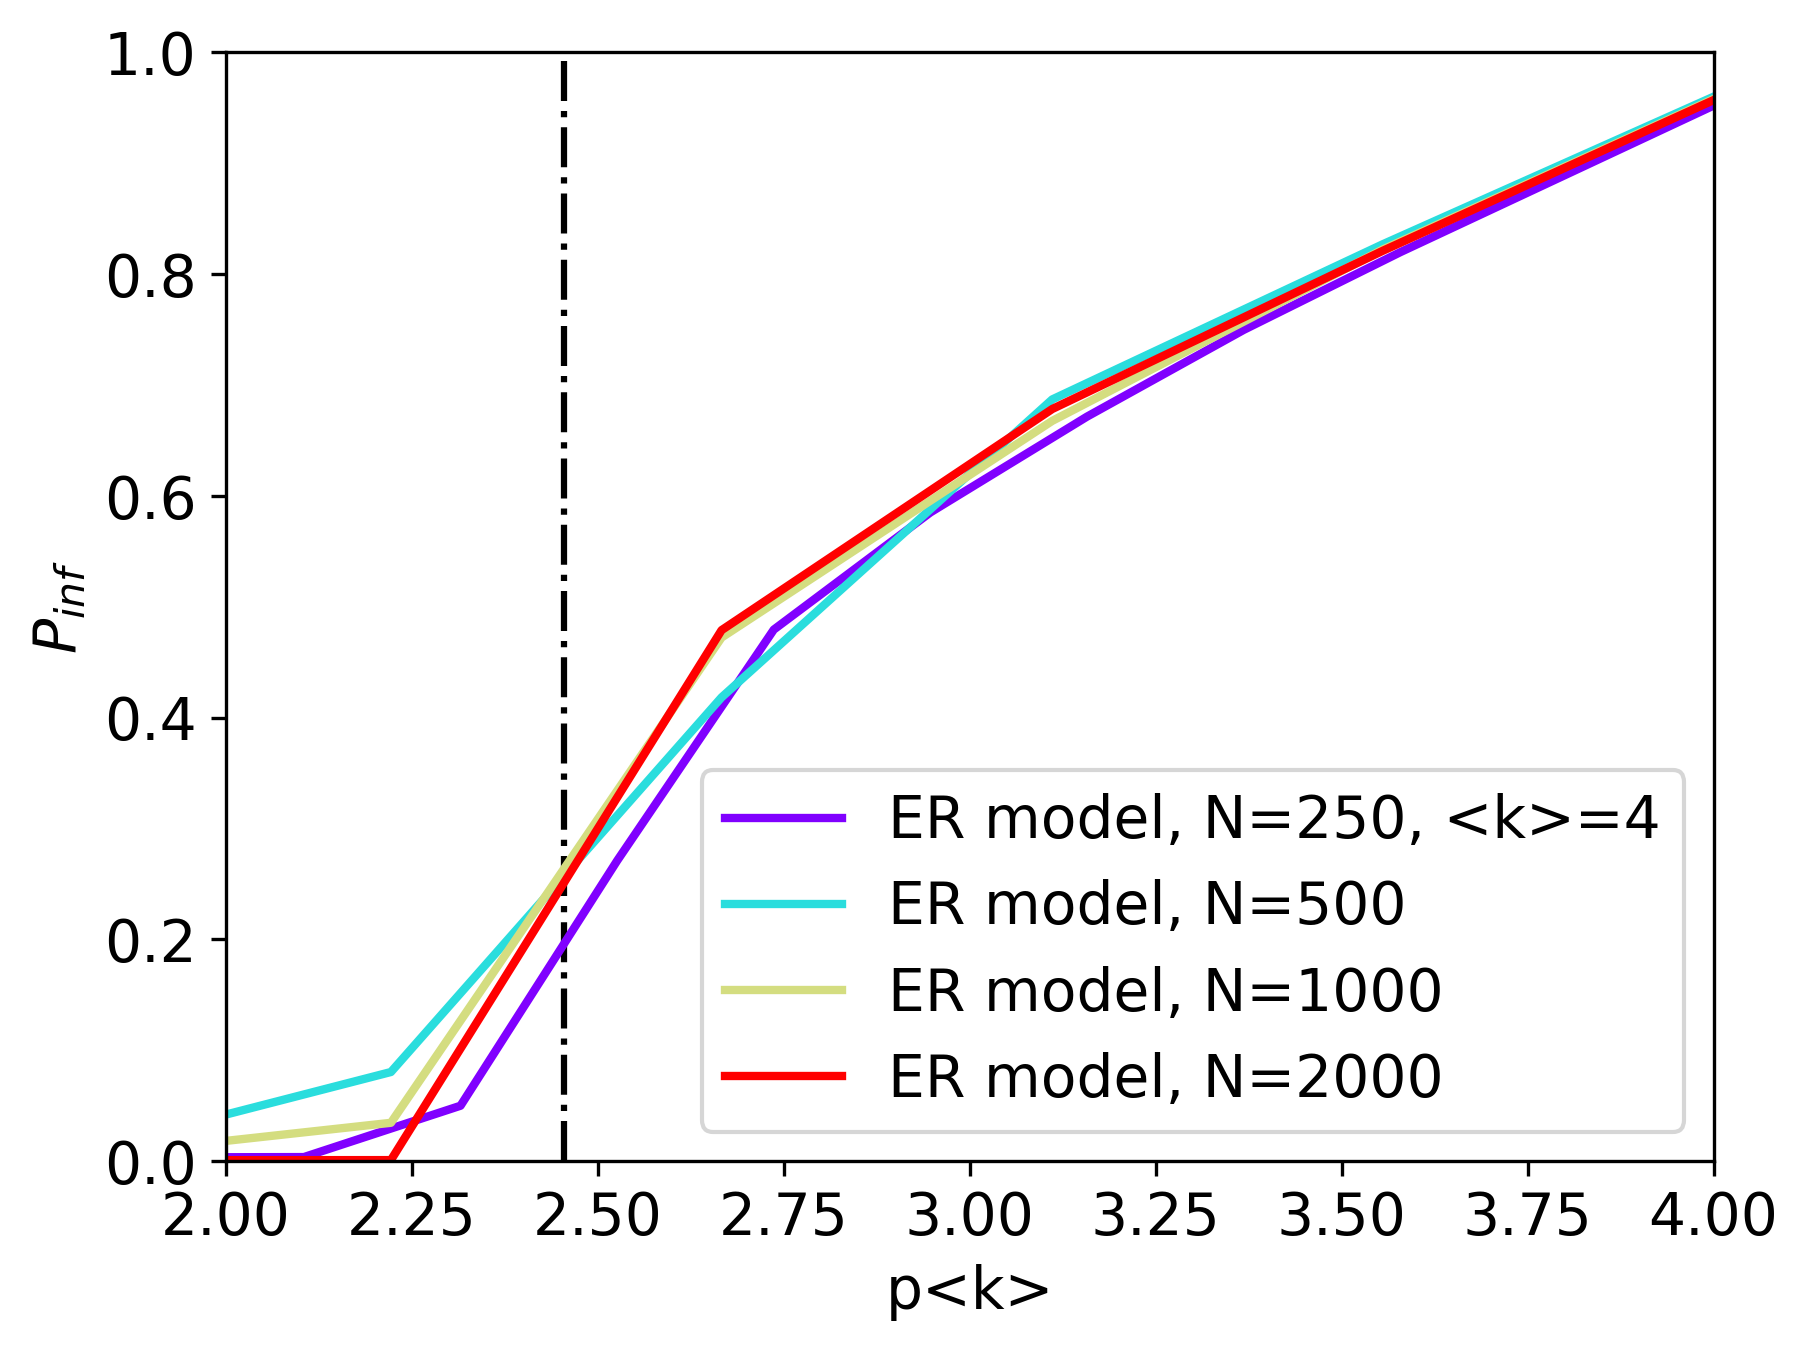
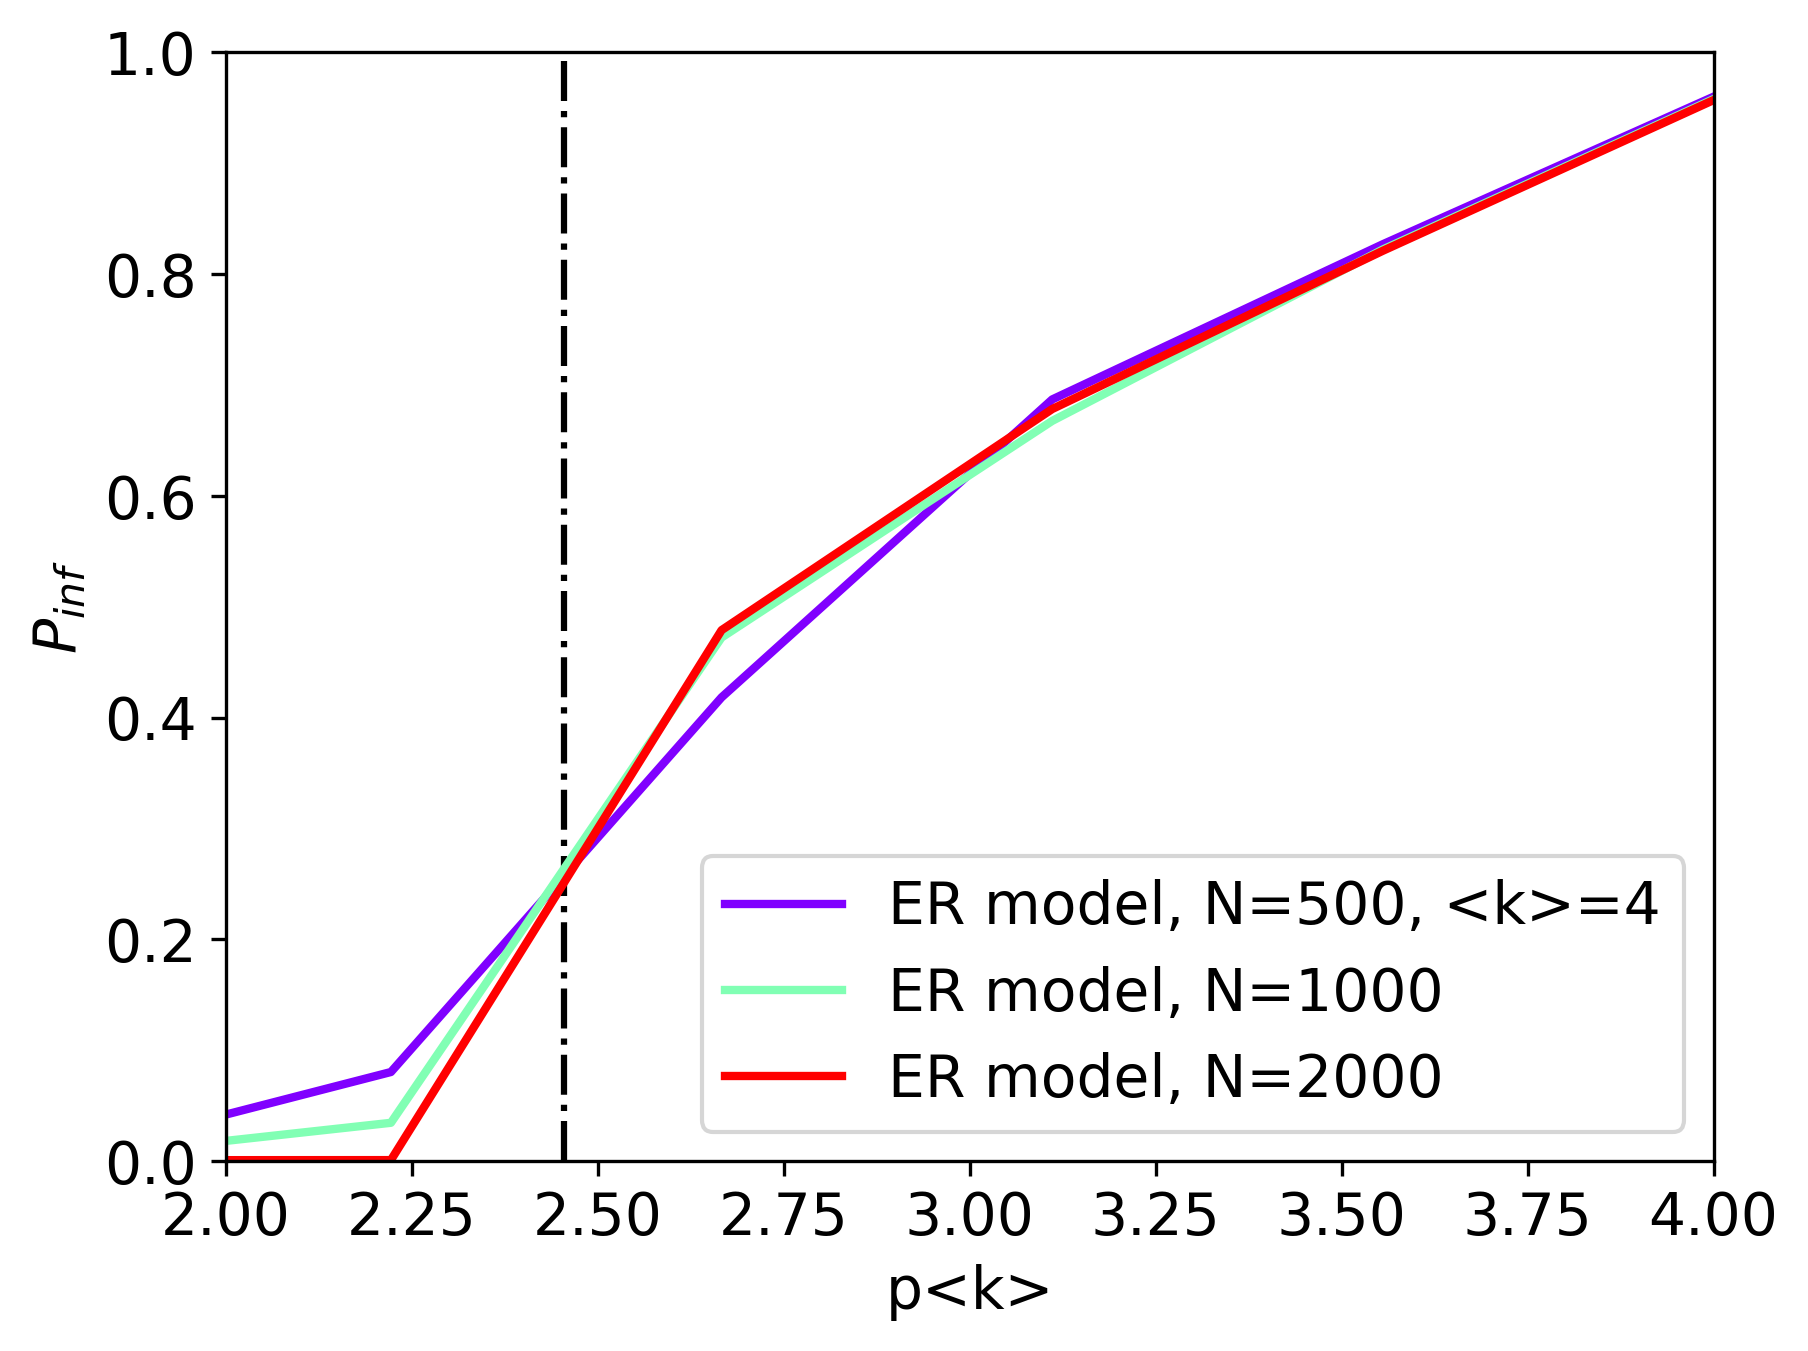
main 4000

diff --git a/plot.py b/plot.py
@@ -8,15 +8,15 @@ from src.measure import *
 
 #plot_pinf([ER250, ER500], k=4, labels= ["ER model, N=250, <k>=4","ER model, N=500"], path="./notebooks/figure/ER_250_500.png", p_theory=True)
 
-'''
+
 ## normal plot 
-ER250= np.loadtxt('./notebooks/results/sy/er/t20/ERn250k4.csv',delimiter=",")
+#ER250= np.loadtxt('./notebooks/results/sy/er/t20/ERn250k4.csv',delimiter=",")
 ER500= np.loadtxt('./notebooks/results/sy/er/t20/ERn500k4.csv',delimiter=",")
 ER1000= np.loadtxt('./notebooks/results/sy/er/t20/ERn1000k4.csv',delimiter=",")
 ER2000= np.loadtxt('./notebooks/results/sy/er/t20/ERn2000k4.csv',delimiter=",")
 
-plot_pinf([ER250, ER500, ER1000, ER2000], k=4,labels= ["ER model, N=250, <k>=4","ER model, N=500", "ER model, N=1000", "ER model, N=2000"], path="./notebooks/figure/ER_t20.png", p_theory=True)
-'''
+plot_pinf([ER500, ER1000, ER2000], k=4,labels= ["ER model, N=500, <k>=4","ER model, N=1000", "ER model, N=2000"], path="./notebooks/figure/ER_t20.png", p_theory=True)
+
 
 
 ### plot p_inf of interdependent network
@@ -26,10 +26,10 @@ plot_pinf([ER250, ER500, ER1000, ER2000], k=4,labels= ["ER model, N=250, <k>=4",
 
 #p_inf_t = np.loadtxt('./notebooks/results/single_train_t50.csv', delimiter=",")
 #p_inf_m = np.loadtxt('./notebooks/results/single_metro_t50.csv', delimiter=",")
-p_inf_int = np.loadtxt('./notebooks/results/PARIS/Paris_train_metro_new_t50.csv', delimiter=",")
+#p_inf_int = np.loadtxt('./notebooks/results/PARIS/Paris_train_metro_new_t50.csv', delimiter=",")
 #residual = pinf_int_mt[1][0]
 
-plot_pinf([[p_inf_int[0], p_inf_int[1]]], labels=['Real world interdependent Network'], path="./notebooks/figure/PARIS/real_world.png", residual = True)
+#plot_pinf([[p_inf_int[0], p_inf_int[1]]], labels=['Real world interdependent Network'], path="./notebooks/figure/PARIS/real_world.png", residual = True)
 
 #plot_pinf([[pinf_int_mt[0], pinf_int_mt[1]]], path='./notebooks/figure/realWorld/real_int_net_scaled_t50.png', residual = True)
 '''

diff --git a/src/measure.py b/src/measure.py
@@ -41,7 +41,7 @@ def generate_pinf_ER(n, k, t=5, hasGraph = False, files=[]):
     
     p_infs = []
 
-    ps = np.linspace(0,1,20)
+    ps = np.linspace(0.5,0.9,10)
 
 
     for p in tqdm(ps):
@@ -227,8 +227,8 @@ def plot_pinf(results, k=1, xlim=None, labels=None, path=None, p_theory=False, r
     if residual:
         plt.hlines(results[0][1][0], xmin=0, xmax=1, linestyles='dotted', colors='k')
     plt.ylabel('$P_{inf}$')
-    plt.xlim(0,1)
-    plt.ylim(0.2, 1)
+    plt.xlim(2.0,4.0)
+    plt.ylim(0,1)
     # plt.ylabel('$P_{node}$(in Gcomponent)')
     if labels:
         plt.legend(labels)

diff --git a/main_sy.py b/main_sy.py
@@ -18,8 +18,11 @@ np.savetxt('./notebooks/results/sy/er/scale/ERn2000s.csv', ERn2000s, delimiter='
 '''
 ## lin20 btw 2.00-3.50 (t=30)
 
-ERn8000t5 = generate_pinf_ER(8000, 4, t=5)
-np.savetxt('./notebooks/results/sy/er/t20/ERn8000t5.csv', ERn8000t5, delimiter=',')
+ERn4000t15 = generate_pinf_ER(4000, 4, t=15)
+np.savetxt('./notebooks/results/sy/er/t20/ERn4000t15.csv', ERn4000t15, delimiter=',')
+
+#ERn8000t5 = generate_pinf_ER(8000, 4, t=5)
+#np.savetxt('./notebooks/results/sy/er/t20/ERn8000t5.csv', ERn8000t5, delimiter=',')
 
 '''
 '''
